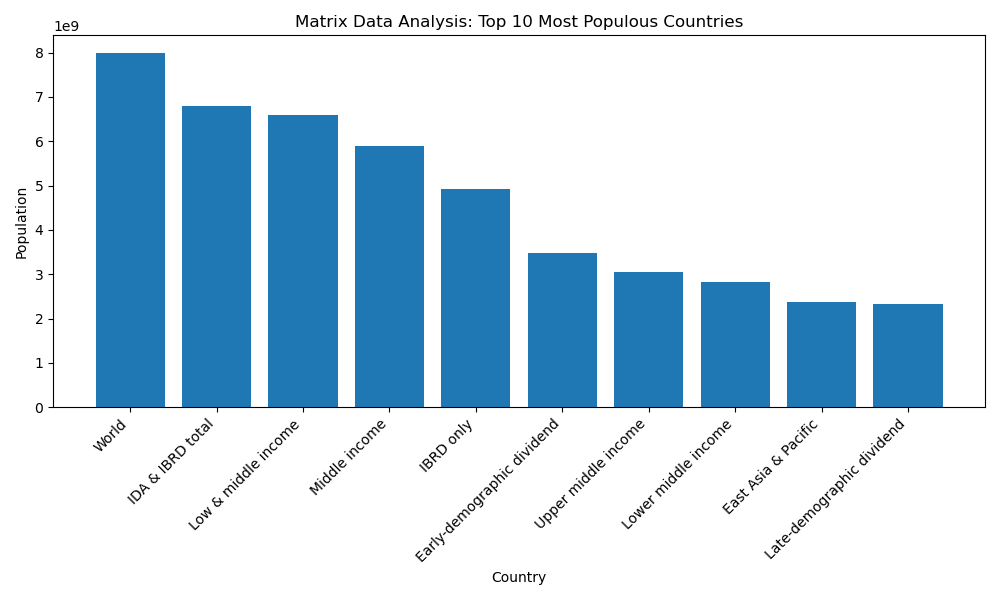
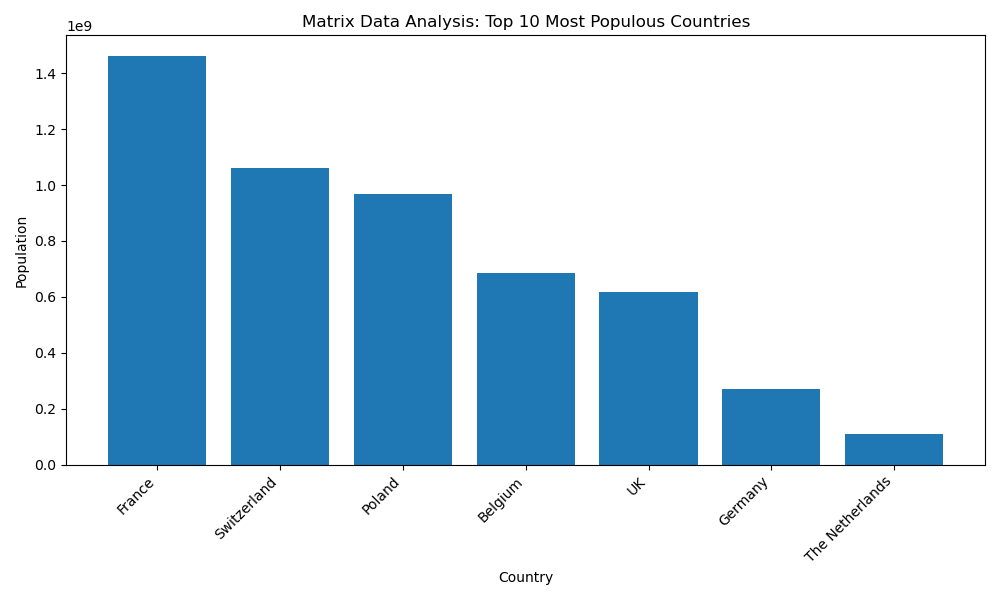
oracle changes

diff --git a/Python_Modules/Python_Module08/ex2/oracle.py b/Python_Modules/Python_Module08/ex2/oracle.py
@@ -20,7 +20,7 @@ def format_configuration(config: dict) -> str:
     api_status = "Authenticated" if config["API_KEY"] else "Not authenticated"
     zion_status = "Online" if config["ZION_ENDPOINT"] else "Offline"
     return (
-        "Configuration loaded\n"
+        "Configuration loaded:\n"
         f"Mode: {config['MATRIX_MODE']}\n"
         f"Database: {database_status}\n"
         f"API Access: {api_status}\n"
@@ -45,5 +45,18 @@ def oracle() -> None:
     print()
     loaded_config = load_configuration()
     print(format_configuration(loaded_config))
+    print()
+    print(security_check(loaded_config))
+    print()
+    missing = [
+        key for key in ("DATABASE_URL", "API_KEY", "ZION_ENDPOINT")
+        if loaded_config[key] is None
+    ]
+    if missing:
+        print(f"WARNING: Missing configuration for: {', '.join(missing)}")
+    else:
+        print("The Oracle sees all configurations.")
+
+
 if __name__ == '__main__':
     oracle()
